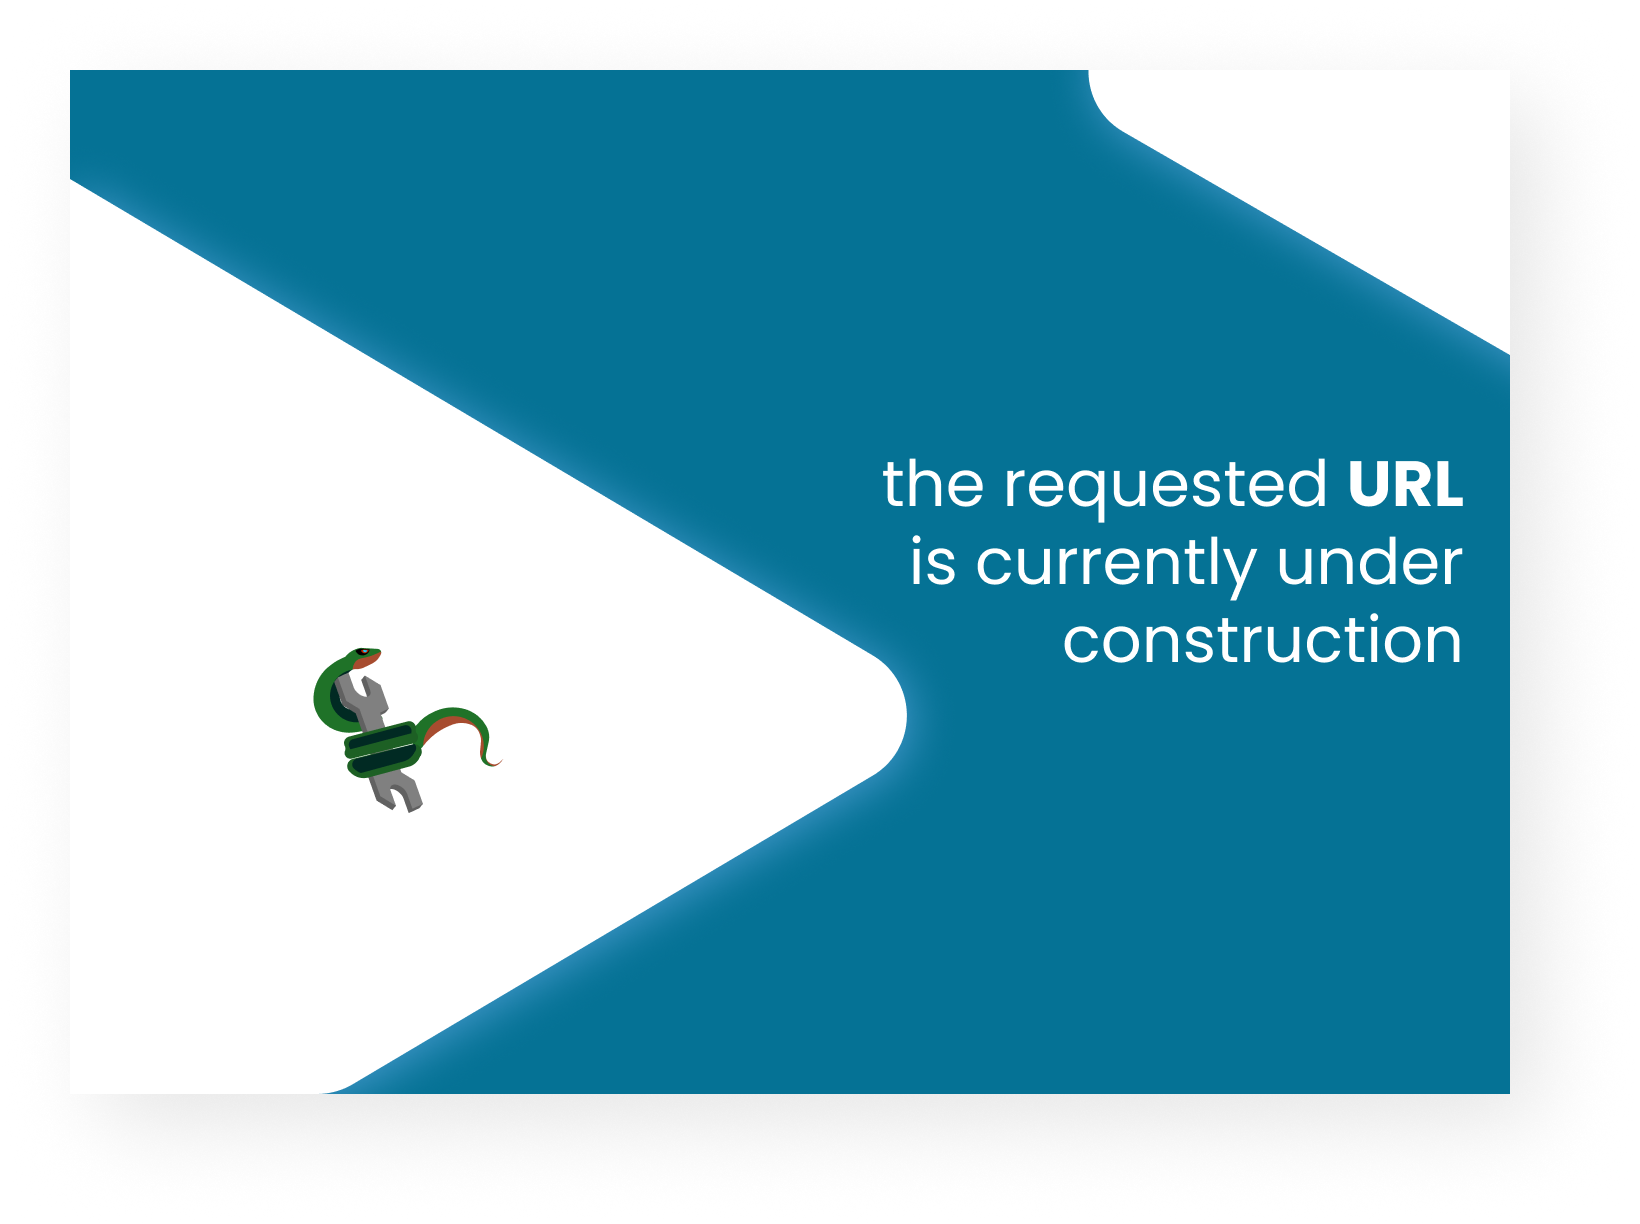
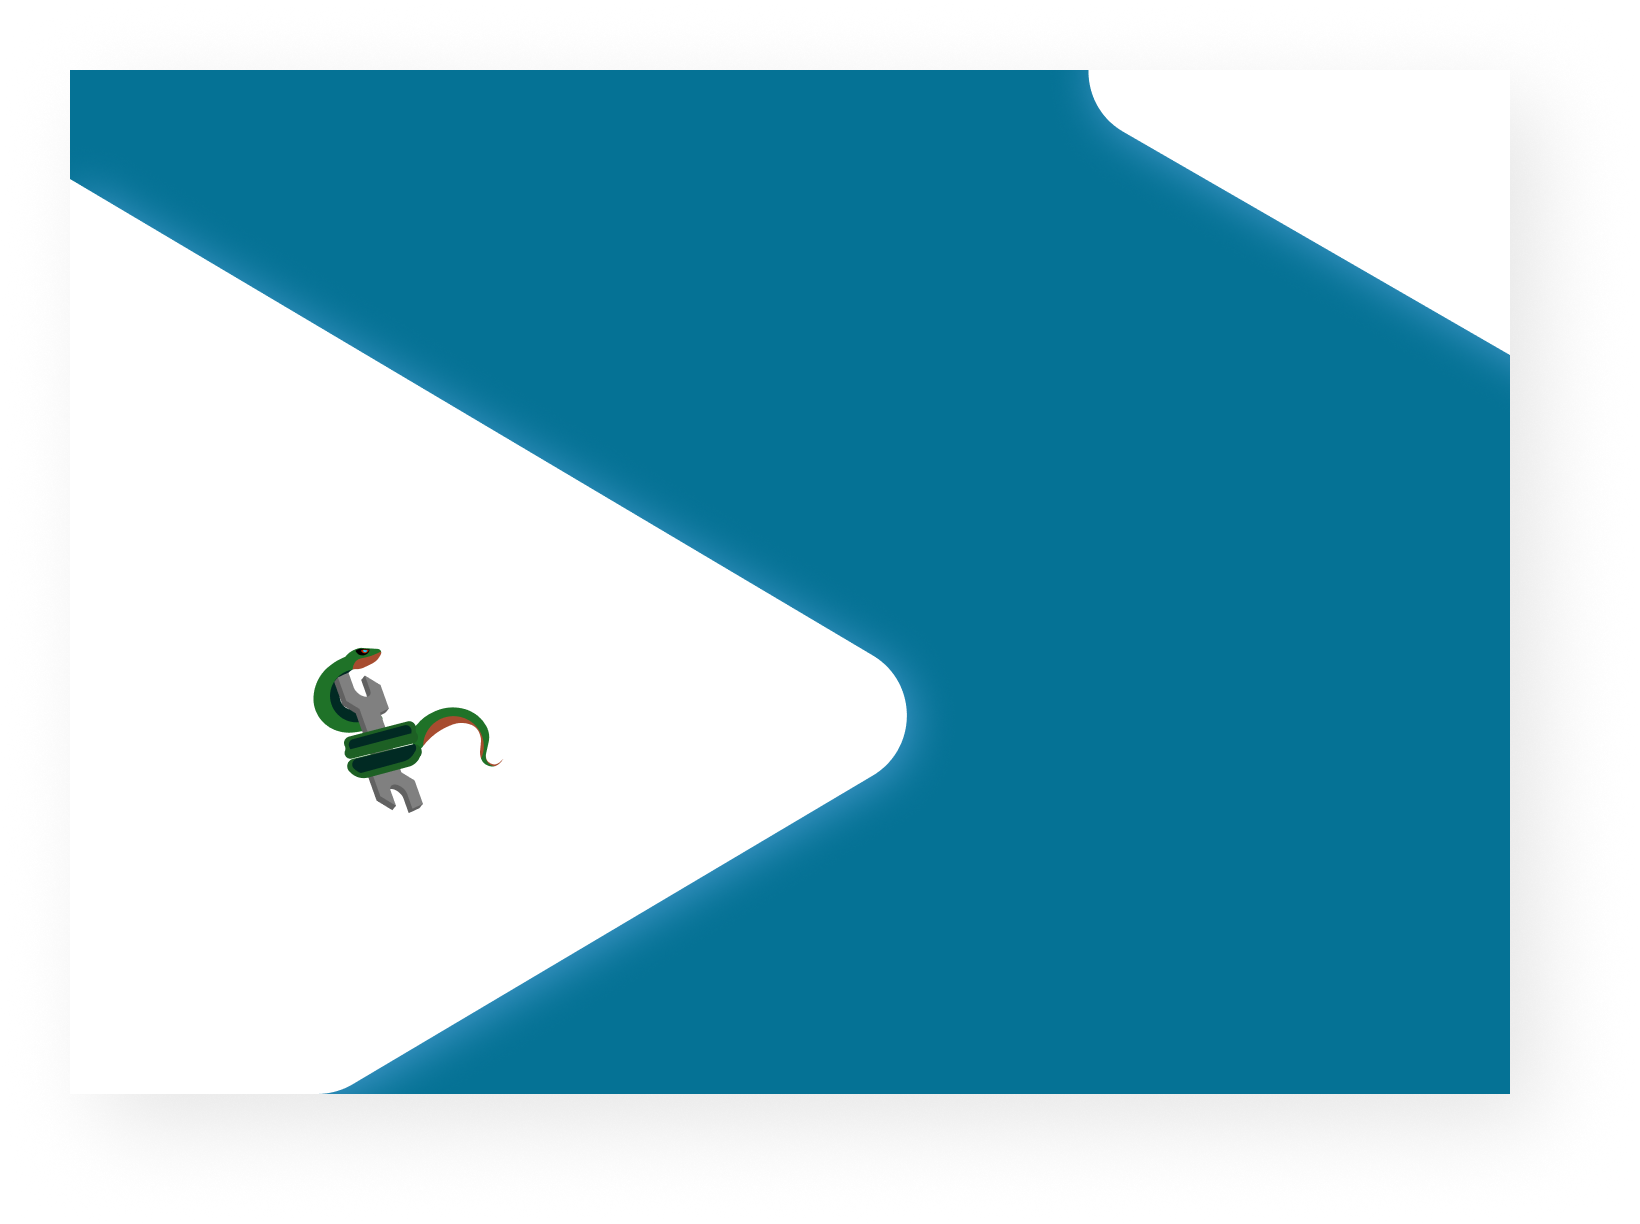
Make website fully mobile responsive

Changed region(s): [[0.5287, 0.3725, 0.9018, 0.5588]]

diff --git a/styles/Home.module.css b/styles/Home.module.css
@@ -32,7 +32,7 @@
 .button {
   cursor: pointer;
   margin: 2.3vw 3vw;
-  font-size: 1.7vw;
+  font-size: 1.4vw;
   text-transform: uppercase;
   color: white;
   text-align: center;
@@ -56,6 +56,7 @@
 
 .footer {
   background-image: url("../public/BottomBg.svg");
+  background-color: black;
   background-size: cover;
   width: 100%;
   height: 43.3vw;
@@ -140,6 +141,7 @@
   display: flex;
   justify-content: center;
   padding-top: 1.2em;
+  font-size: 1.7vw;
 }
 
 #cardSection {
@@ -319,7 +321,7 @@
   text-align: center;
 }
 
-@media only screen and (max-width: 1150px) {
+@media only screen and (max-width: 1150px) and (min-width: 652px) {
   .card {
     width: 28vw;
     height: 28vw;
@@ -333,18 +335,35 @@
     height: 4.2vw;
   }
 }
-
-@media only screen and (max-width: 652px) {
-  .bodyText {
-    font-size: 4vw;
+@media only screen and (max-width: 606px) {
+  #cardSection {
+    flex-direction: column;
   }
-
+}
+@media only screen and (max-width: 652px) {
+  .card {
+    width: 220px;
+    height: 220px;
+    border-radius: 30px;
+    margin: 5px;
+  }
+  .card p {
+    font-size: 15px;
+  }
+  .card h2 {
+    font-size: 19px;
+    height: 25px;
+  }
+  .bodyText {
+    font-size: 15px;
+    line-height: 1.5em;
+  }
   .sectionTitle {
-    font-size: 5.55vw;
+    font-size: 24px;
   }
 
   .sectionSubtitle {
-    font-size: 4.8vw;
+    font-size: 19px;
   }
 
   #titleMain {
@@ -370,9 +389,12 @@
     border-radius: 1vw;
     font-size: 2.1vw;
   }
+  .link {
+    padding: 0vw 1.5vw;
+  }
 }
 
-@media only screen and (max-width: 1267px) {
+@media only screen and (max-width: 1267px) and (min-width: 652px) {
   .bodyText {
     font-size: 2.13vw;
   }
@@ -420,5 +442,11 @@
   .card h2 {
     font-size: 2.5vw;
     height: 3.3vw;
+  }
+}
+
+@media only screen and (max-width: 768px) {
+  .topSection {
+    margin-top: 50px;
   }
 }

diff --git a/pages/index.js b/pages/index.js
@@ -55,7 +55,7 @@ export default function Home() {
             </span>
             .
           </div>
-          <section className={styles.buttonContainer}>
+          <div className={styles.buttonContainer}>
             <div
               onClick={() => window.open(apply_link, "_blank")}
               className={styles.button}>
@@ -66,7 +66,7 @@ export default function Home() {
               className={styles.button}>
               <h1 className='ContactText'>Contact</h1>
             </div>
-          </section>
+          </div>
         </section>
         <main className={styles.main}>
           <section className={styles.section}>
@@ -185,8 +185,10 @@ export default function Home() {
             </p>
           </section>
         </main>
-        <div id={styles.checkerDivider}></div>
-        <section className={styles.footer}>
+        <div id={styles.checkerDivider} title='Checker board divider'></div>
+        <section
+          className={styles.footer}
+          title='Circles wavelike pattern on top-left and bottom-right'>
           <h1 id={styles.bottomTitle}>Apply today to become a member.</h1>
           <h2 id={styles.bottomSubtitle}>
             It's completely online and takes under 10 minutes.

diff --git a/styles/globals.css b/styles/globals.css
@@ -103,7 +103,7 @@ a {
 }
 
 .soonButton {
-  margin-top: 51vw;
+  margin-top: 4vw;
   margin-left: 74.4vw;
   background-image: url("../public/soonButton.svg");
   background-position-x: center;
@@ -115,6 +115,15 @@ a {
   border-radius: 1.2vw;
   border: none;
   outline: none;
+}
+
+.soonTitle {
+  font-size: 4.46vw;
+  margin-top: 31vw;
+  margin-left: 48.2vw;
+  color: white;
+  width: 680px;
+  text-align: right;
 }
 
 #menuIcon {
@@ -157,7 +166,7 @@ a {
     top: 0;
     border-radius: 2vw;
     left: 2vw;
-    margin: 4.5vw 0vw;
+    margin: 30px 0vw;
     height: 25vw;
     background-color: rgba(2, 39, 60, 0.95);
 
@@ -204,6 +213,6 @@ a {
   }
 
   #navContainer {
-    height: 5vw;
+    height: 50px;
   }
 }

diff --git a/pages/comingsoon.js b/pages/comingsoon.js
@@ -9,8 +9,15 @@ const Soon = () => {
           name='description'
           content='This page is currently under construction. Check out the home page to learn more about the Ronald Reagan Computer Science Club.'
         />
+        <link
+          href='https://fonts.googleapis.com/css2?family=Raleway:wght@300&display=swap'
+          rel='stylesheet'
+        />
       </Head>
-      <div className='soonContainer'>
+      <div className='soonContainer' title='Snake with wrench'>
+        <h1 className='soonTitle'>
+          the requested <strong>URL</strong> is currently under construction
+        </h1>
         <a href='/'>
           <div className='soonButton'></div>
         </a>
